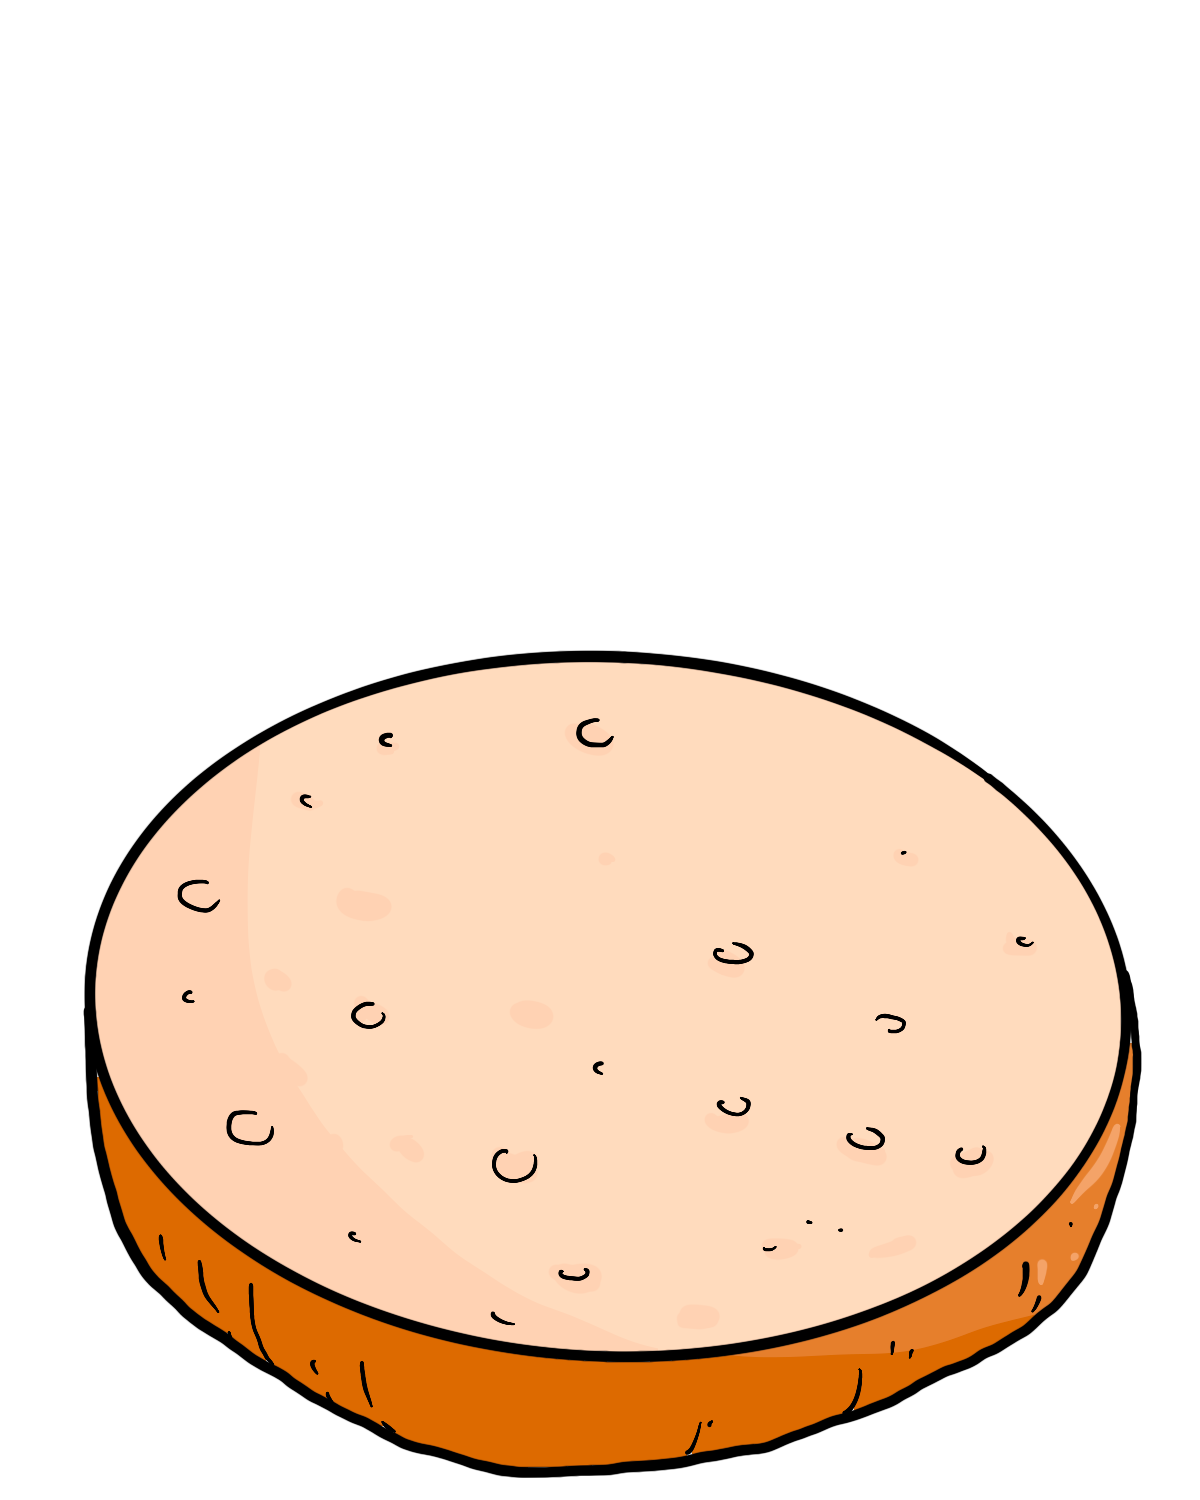
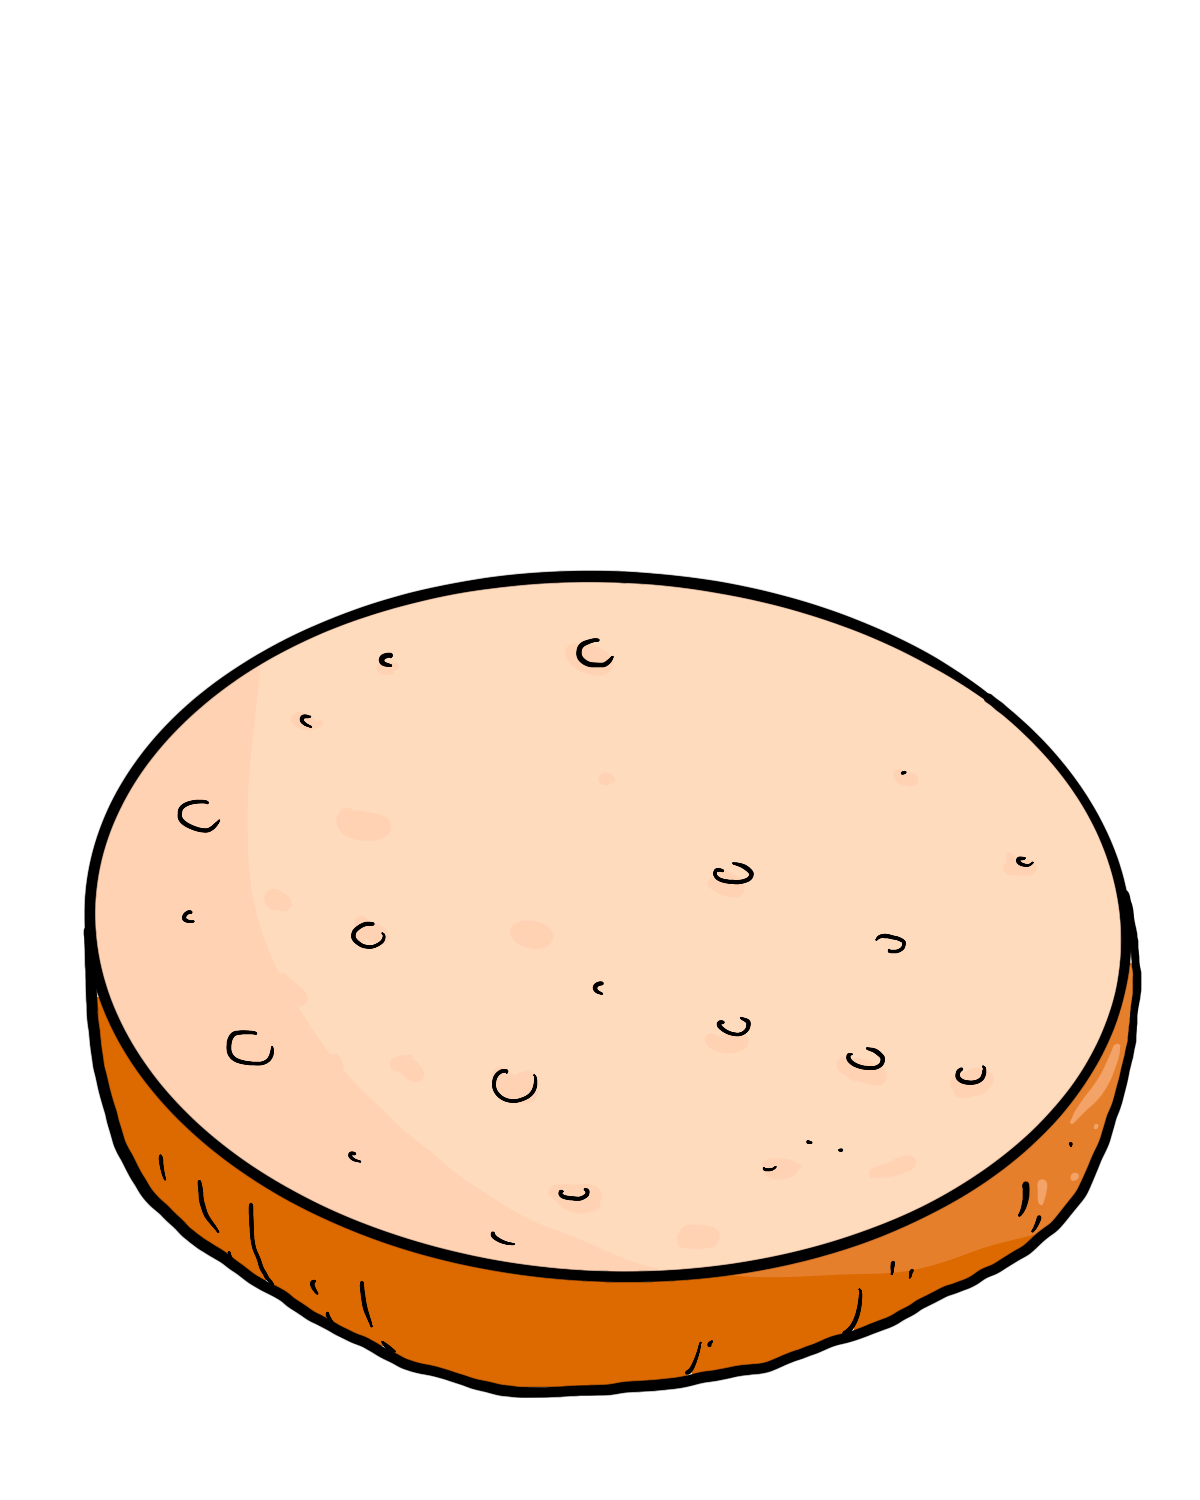
update burger images and add plate

diff --git a/src/stores/game.js b/src/stores/game.js
@@ -77,10 +77,10 @@ function createNewOrder(foodId, now) {
 
 export const useGameStore = defineStore("gameStore", {
   state: () => ({
-    combinedFoods: [createNewFood("pie")],
+    combinedFoods: [createNewFood("burger")],
     ingredientSelectorOpen: false,
     ingredientSelection: null,
-    orderQueue: [createNewOrder("pie")],
+    orderQueue: [createNewOrder("burger")],
     score: 0,
     bonusTimeMs: 0,
     orderDelay: ORDER_DELAY_MAX_MS,
